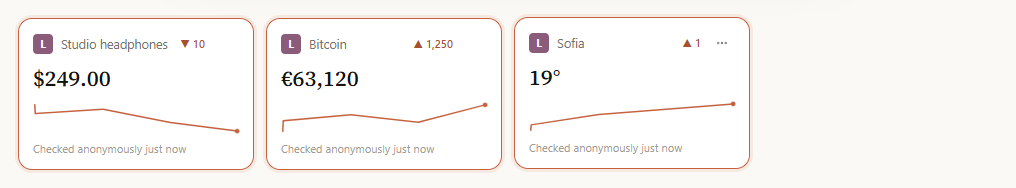
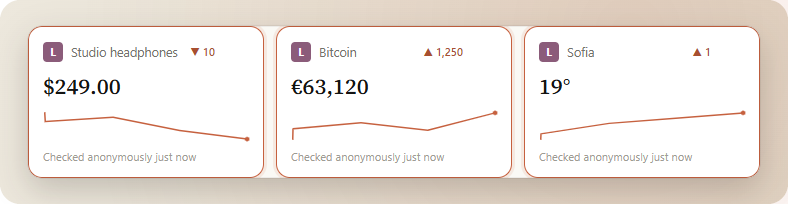
Refresh README showcase with framed screenshots, split view, and Studio theme grid

diff --git a/README.md b/README.md
@@ -122,17 +122,17 @@ Sites can try to recognise your device from your graphics card, screen, fonts, a
 </tr>
 </table>
 
-## 📖 Reader view & everyday browsing
+## 📖 Split view, Reader view & everyday browsing
 
-<img src="assets/reader.png" alt="Reader view of a Wikipedia article">
+<img src="assets/reader.png" alt="Split view showing Reader view beside reading notes, with tab folders and sleeping tabs in the sidebar">
 
-Reader view, **vertical tabs**, **workspaces** (each with its own protection level, and its own logins if you want), tab folders, **split view**, a command palette (`Ctrl+K`), sleeping tabs, session restore, private windows and bookmark import from other browsers.
+**Split view** (`Ctrl+\`, or drag any tab onto the page), **Reader view** (`F9`), **vertical tabs**, **workspaces** (each with its own protection level, and its own logins if you want), **tab folders**, **sleeping tabs** that free memory automatically, a command palette (`Ctrl+K`), session restore, private windows and bookmark import from other browsers.
 
 ## 🎨 Studio: make it yours
 
-<img src="assets/studio.png" alt="Studio, Aphrodite's theme editor">
+<img src="assets/studio.png" alt="Four Studio themes side by side: Sage, Rosewater, Typewriter, and Midnight Dark">
 
-Themes, every colour, shape and type, layout, your own buttons and sliders, styles for websites, and CSS for any part of Aphrodite. Everything stays on your computer and survives updates.
+13 built-in themes (**Aphrodite**, **Sage**, **Harbor**, **Plum**, **Rosewater**, **Graphite**, **Typewriter**, **Lavender**, **Ember**, **Glacier**, **Moss**, **Espresso**, **Midnight**), every surface and text colour, corner roundness, typography, layout, your own toolbar buttons and sliders, styles for websites, and CSS for any part of Aphrodite. Everything stays on your computer and survives updates.
 
 ## 📚 A privacy guide that tells the truth
 
